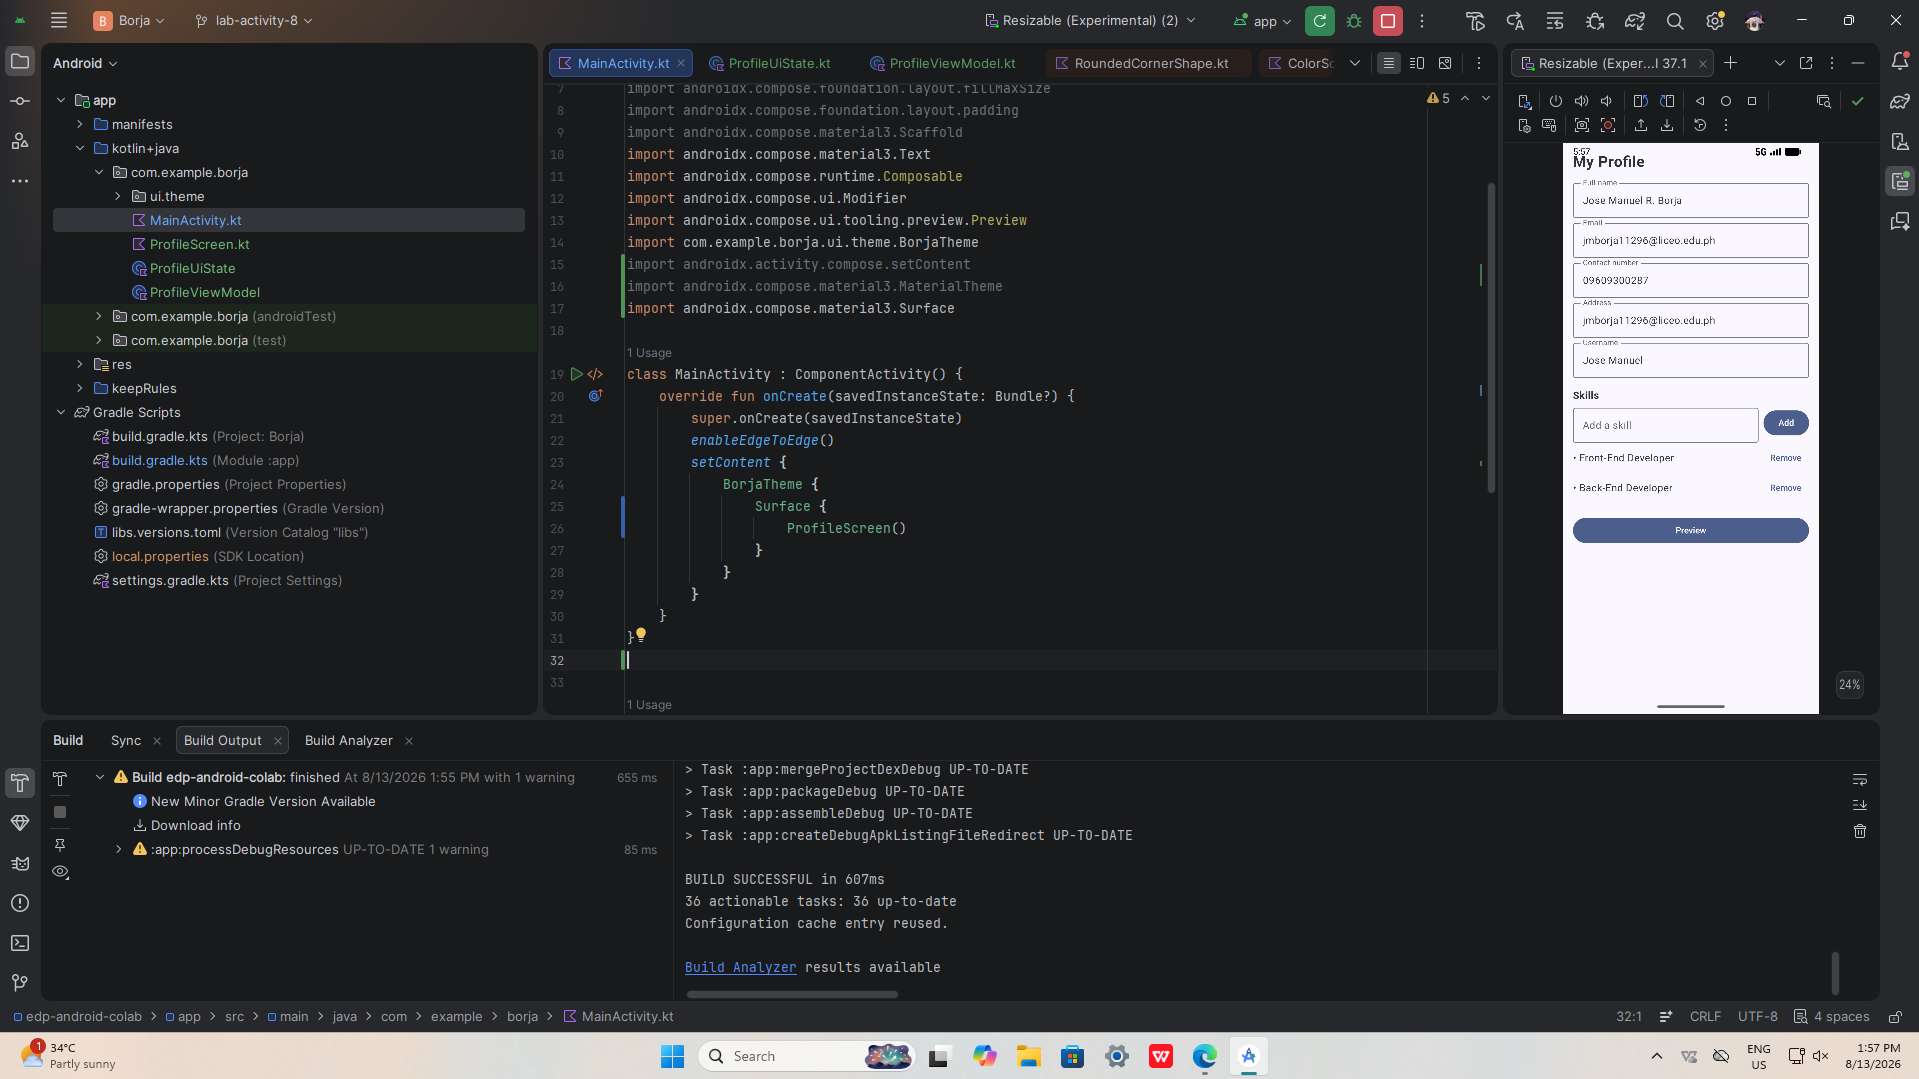
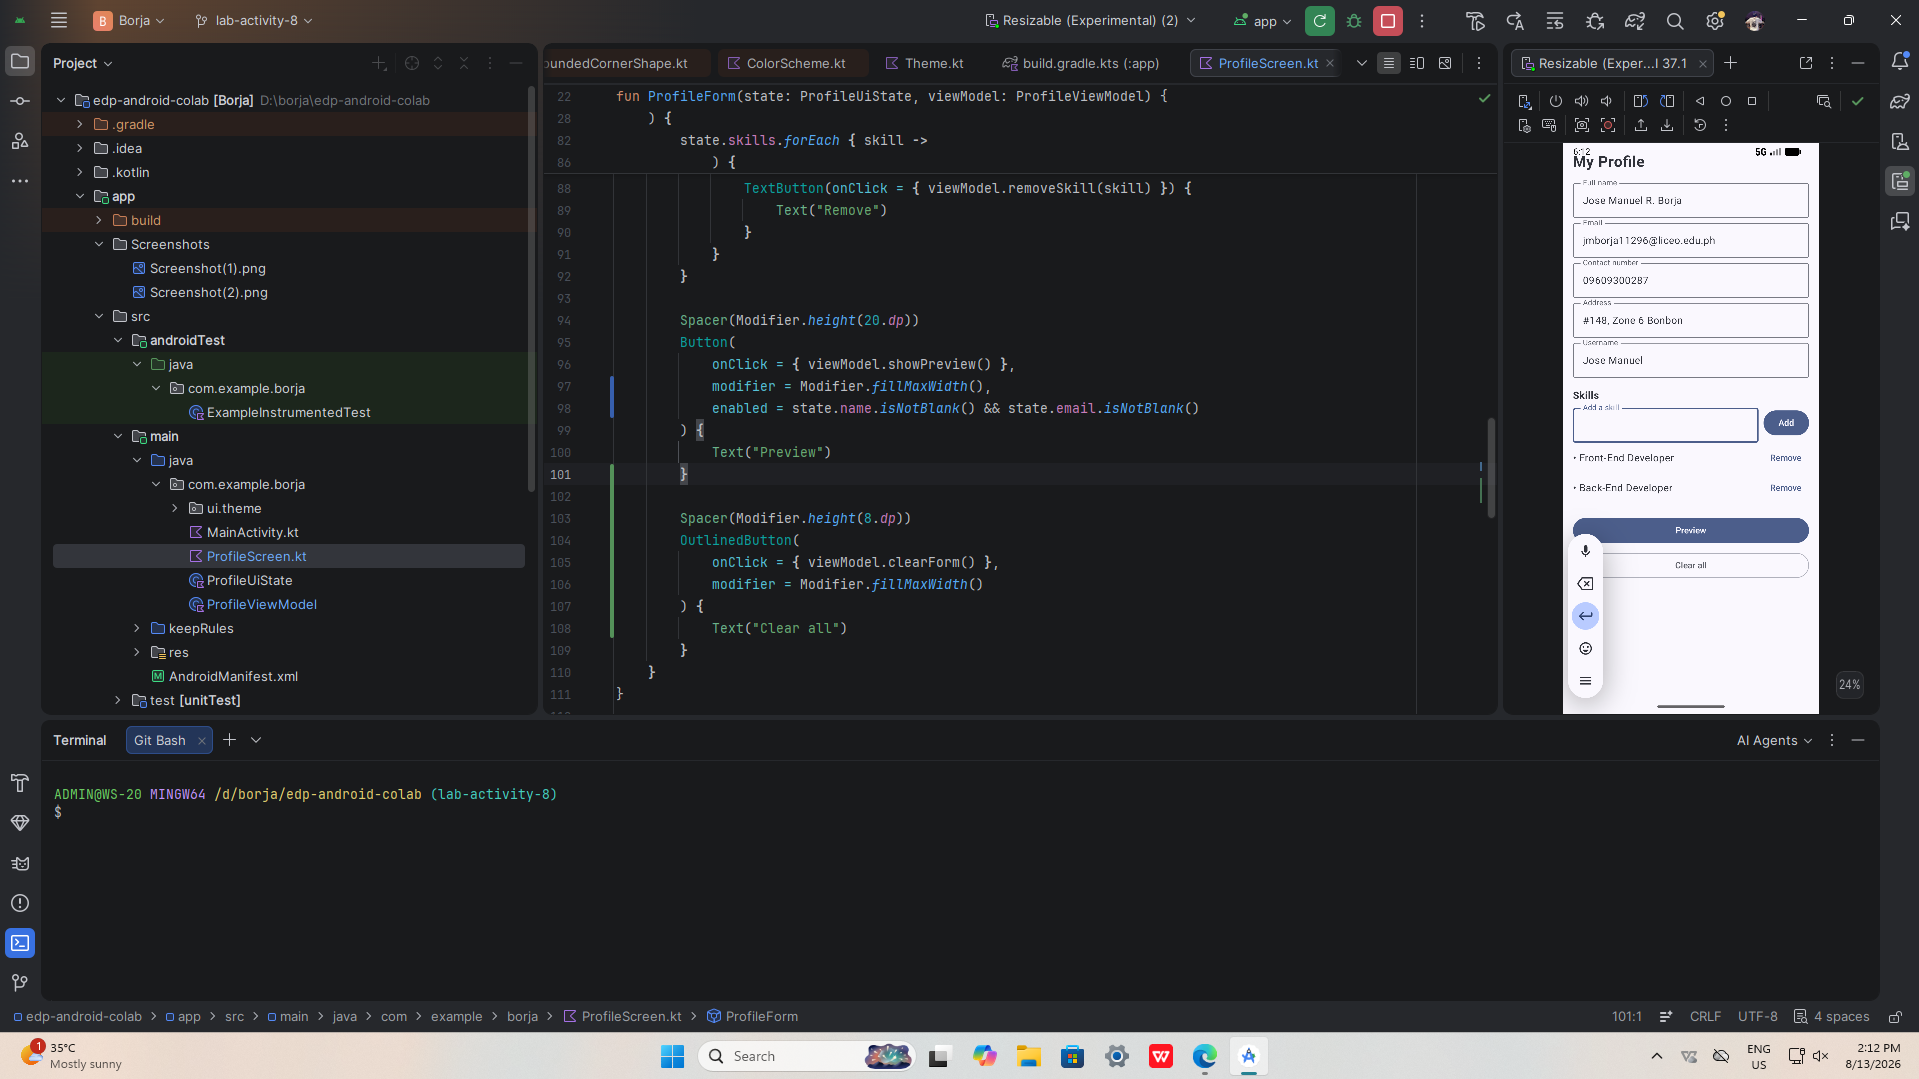
Lab Activity 8: MVVM user profile app

diff --git a/app/src/main/java/com/example/borja/ProfileViewModel.kt b/app/src/main/java/com/example/borja/ProfileViewModel.kt
@@ -33,16 +33,16 @@ class ProfileViewModel : ViewModel() {
         _uiState.update { it.copy(newSkill = value) }
 
 // --- Add / remove skills ---
-fun addSkill() {
-    val skill = _uiState.value.newSkill.trim()
-    if (skill.isEmpty()) return          // ignore empty input
-    _uiState.update { current ->
-        current.copy(
-            skills = current.skills + skill, // new list = old + one
-            newSkill = ""                    // clear the input box
-        )
+    fun addSkill() {
+        val skill = _uiState.value.newSkill.trim()
+        if (skill.isEmpty() || _uiState.value.skills.contains(skill)) return          // ignore empty or duplicate input
+        _uiState.update { current ->
+            current.copy(
+                skills = current.skills + skill, // new list = old + one
+                newSkill = ""                    // clear the input box
+            )
+        }
     }
-}
 
 fun removeSkill(skill: String) {
     _uiState.update { current ->
@@ -50,8 +50,12 @@ fun removeSkill(skill: String) {
     }
 }
 
-// --- Preview toggle ---
-fun showPreview() = _uiState.update { it.copy(isPreview = true) }
-fun backToEdit() = _uiState.update { it.copy(isPreview = false) }
+    // --- Preview toggle ---
+    fun showPreview() = _uiState.update { it.copy(isPreview = true) }
+    fun backToEdit() = _uiState.update { it.copy(isPreview = false) }
+
+    fun clearForm() {
+        _uiState.value = ProfileUiState()
+    }
 }
 

diff --git a/app/src/main/java/com/example/borja/ProfileScreen.kt b/app/src/main/java/com/example/borja/ProfileScreen.kt
@@ -94,9 +94,18 @@ fun ProfileForm(state: ProfileUiState, viewModel: ProfileViewModel) {
         Spacer(Modifier.height(20.dp))
         Button(
             onClick = { viewModel.showPreview() },
-            modifier = Modifier.fillMaxWidth()
+            modifier = Modifier.fillMaxWidth(),
+            enabled = state.name.isNotBlank() && state.email.isNotBlank()
         ) {
             Text("Preview")
+        }
+
+        Spacer(Modifier.height(8.dp))
+        OutlinedButton(
+            onClick = { viewModel.clearForm() },
+            modifier = Modifier.fillMaxWidth()
+        ) {
+            Text("Clear all")
         }
     }
 }
